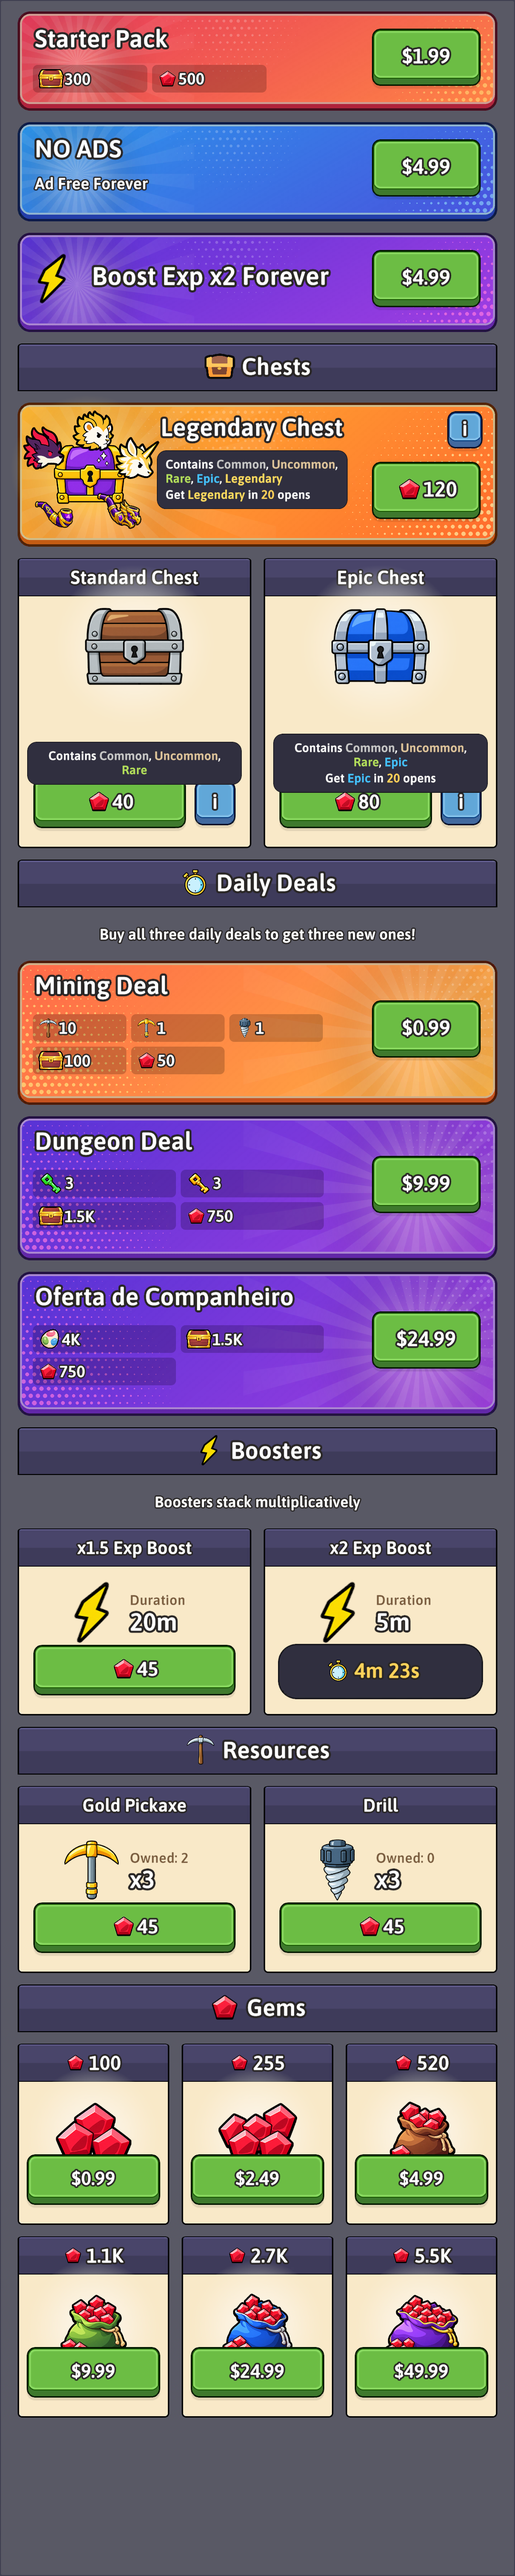
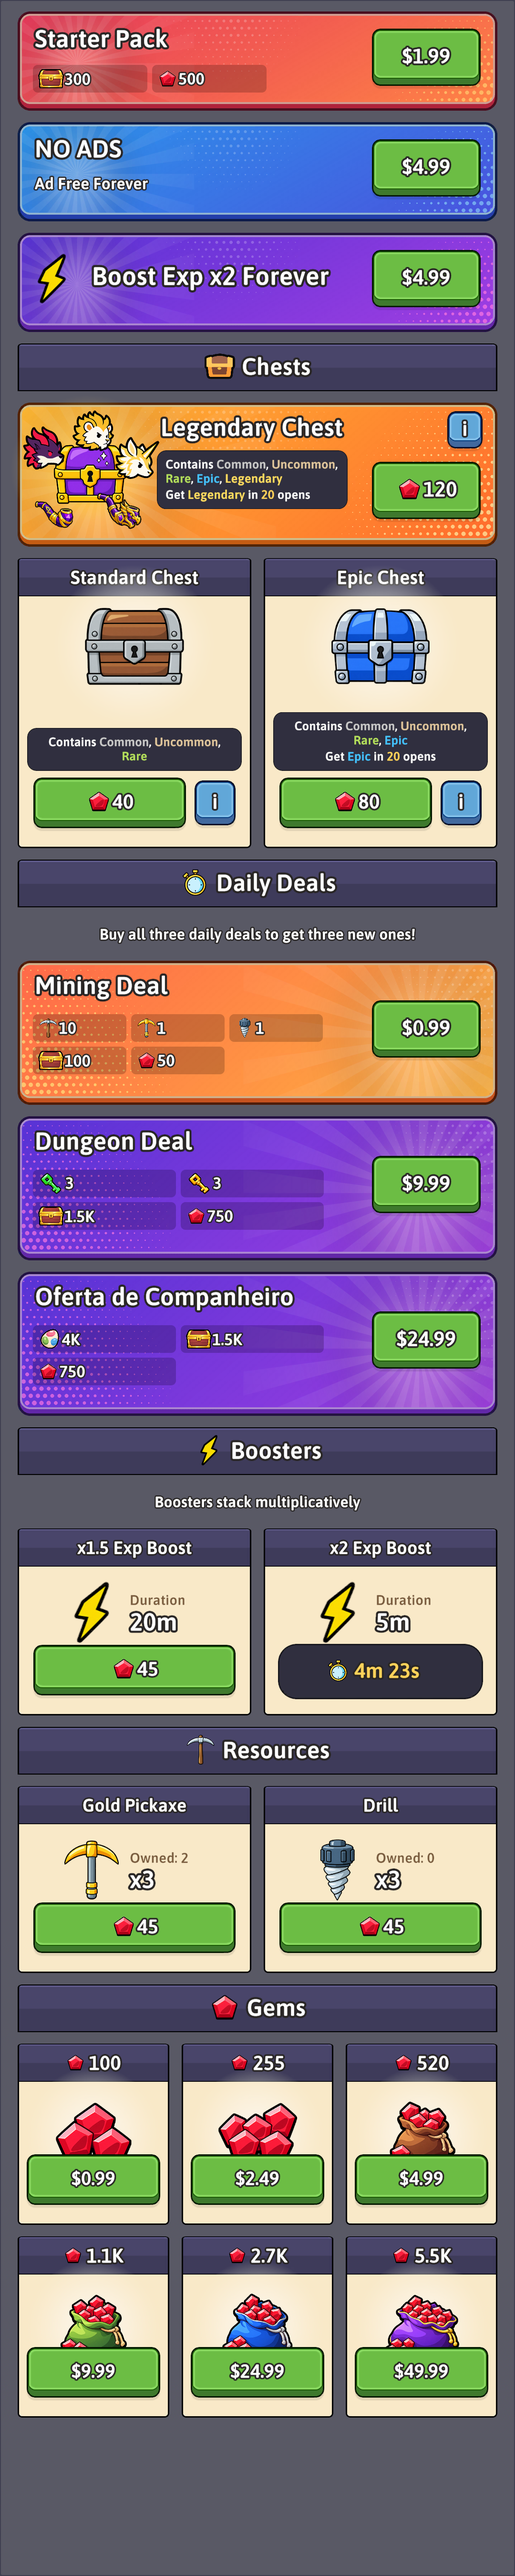
Reskin trang Shop: panel Contains thẻ rương neo mép dưới, ảnh chụp kiểm + ghi tiến độ

Changed region(s): [[0.5194, 0.2489, 0.9472, 0.3111], [0.0306, 0.28, 0.4889, 0.3111]]

diff --git a/2026DungeonRushUnity/Assets/_Assets/Scripts/Art/Editor/ShopPageReskin.cs b/2026DungeonRushUnity/Assets/_Assets/Scripts/Art/Editor/ShopPageReskin.cs
@@ -301,9 +301,10 @@ public static class ShopPageReskin
             Batch7Reskin.PutBehind(glow.transform, icon.transform);
 
             RectTransform panel = InfoPanel(root.transform, card, TextAlignmentOptions.Center);
-            panel.anchorMin = panel.anchorMax = new Vector2(0.5f, 1f);
-            panel.pivot = new Vector2(0.5f, 0.5f);
-            panel.anchoredPosition = new Vector2(0f, -430f);
+            // Neo mép DƯỚI cách đỉnh nút mua 12 → panel cao lên khi có dòng pity, không đè nút.
+            panel.anchorMin = panel.anchorMax = new Vector2(0.5f, 0f);
+            panel.pivot = new Vector2(0.5f, 0f);
+            panel.anchoredPosition = new Vector2(0f, TILE_BUTTON_BOTTOM + TILE_BUTTON_H / 2f + 12f);
             panel.sizeDelta = new Vector2(450f, panel.sizeDelta.y);
 
             TileButton(card.BuyButton.transform, 326f);

diff --git a/tools/concept/PLAN.md b/tools/concept/PLAN.md
@@ -81,4 +81,7 @@ Không làm: trang tab (`StoreTabPage`, `ClanTabPage`, `UIChatTabPage`), `LevelP
 | 9 | ✅ tools/concept/batch9/ (khảo sát: before/ + *_filled; giữ bố cục/art mockup Profile/Settings/Avatar/Rate Us; max: 22 avatar = 5 hàng, 10 ngôn ngữ, mô tả Cloud FR 108, nút tài khoản ES 28, link ES 32) | ✅ 2026-11-12 (duyệt: khung 816 cả 9 popup, nút cam/tím theo chức năng, nhãn nâu; Avatar cao 916 không cuộn, Language thấp 600, gợi ý tên 3-15 ký tự, Sign In sắp lại + link xanh gạch chân, bỏ dòng phụ Sign Up, Choose Save chữ nâu + tên màn + key tiêu đề, Rate Us Submit cam/sprite xám, giữ "SUBMIT" cứng) | ✅ Batch9Reskin (chụp edit mode: batch9/unity.png, 12 ảnh; popup giữ chỗ trên màn, chỉ đổi rộng/cao); CHƯA test Play | ✅ |
 
 ## Thêm: trang Shop (StoreTabPage) — 2026-11-12
-User yêu cầu reskin cả trang Shop (trước để ngoài kế hoạch vì là trang tab). Concept `tools/concept/shop/concept.html` → `concept.png`; nền thẻ ưu đãi sinh bằng `tools/reskin/gen_shop_cards.py` (ra `tools/concept/shop/art/`, CHƯA chép vào Art/). **Trạng thái:** chờ user chốt. Bẫy: class `.pk` trùng nút hồng trong kit.css → đặt tên class riêng.
+User yêu cầu reskin cả trang Shop (trước để ngoài kế hoạch vì là trang tab). Concept `tools/concept/shop/concept.html` → `concept.png`; nền thẻ ưu đãi sinh bằng `tools/reskin/gen_shop_cards.py` → `Art/1_UIKit/Shop/` (card_boost/deal_orange/deal_purple ghi đè giữ GUID; offer_red/offer_blue/chest_gold mới; Simple, không 9-slice). **Trạng thái:** ✅ chốt 2026-11-12, ✅ áp bằng tool `ShopPageReskin` (menu Tools/DungeonRush/Reskin/Shop Page; RetentionUIBuilder gọi ở cuối), chụp edit mode `shop/unity.png`; CHƯA test Play.
+- Code: tên deal dùng key `Common.DealType.*`; deal cao cố định 302, lưới luôn 2 hàng, đổi bề rộng ô (DailyDealSlotUI.CellWidthForLessThan5Rewards 300 / CellWidthFor5Rewards 196); Boost đang chạy bật `StoreTabPage.X2/X5ExpBoostTimerPanel`; "Owned: n" nối DrillOwnedCountText/GoldenPickaxeOwnedCountText (trước null). Key mới `UI.Store.Owned`, `UI.Store.Duration`.
+- Ảnh cũ không còn dùng: Shop/chest_card, card_tan, gem_card, ribbon (chưa xoá).
+- Bẫy: class `.pk` trùng nút hồng trong kit.css → đặt tên class riêng; panel "Contains" thẻ rương dọc phải neo MÉP DƯỚI (co theo chữ, có pity thì cao lên đè nút).

diff --git a/zMemory/dungonrush-reskin-shop.md b/zMemory/dungonrush-reskin-shop.md
@@ -18,4 +18,6 @@ Reskin Shop 2026-10-18 (đã commit, CHƯA test bấm mua), mockup `ArtIncoming/
 - KHÔNG chạy lại `Tools/DungeonRush/Build Shop UI Prefabs` (ghi đè reskin).
 - Popup Shop reskin XONG 2026-10-18 (đã commit; ảnh so `_Concept/Shop/popups_game.png`): ChestInfo/RewardedChest = `Mastery/popup_frame` + Header (ChestInfo cao 120, nút X 104) + `Mastery/btn_close`; dòng tỉ lệ rarity = popup_frame giữ màu tint rarity; RewardParent/Content gói = `Mastery/box_tan`; nút mua/Claim = `Lobby/btn_green` (code UIRewardedChestPopup đổi DEFAULT_BUTTON_COLOR → Color.white, khoá vẫn tint xám); Open all = `Lobby/btn_blue`; ruy băng gói = `Shop/ribbon_tint` (bản trắng của Gameplay/ribbon_offer, `tools/reskin/gen_shop_popups.py`, viền 9-slice 110 hai đuôi) → code vẫn tô màu rarity; ô ChestContentUI = `Shop/reward_slot`; ChestRewardElementUI chỉ đổi font (khung rarity do RarityBackgroundConfig, nhãn NEW giữ xanh). UIOfferPopup đã làm ở đợt gameplay. ChestBundleReveal chỉ là lưới ô trên nền tối — không đổi gì thêm.
 
+- **Reskin lần 2 trang Shop theo kit popup (2026-11-12, user chốt concept `tools/concept/shop/concept.png`):** tool `ShopPageReskin` (KHÔNG chạy lại Build Shop UI Prefabs). Thẻ ưu đãi = nền tia sáng + halftone sinh bằng `tools/reskin/gen_shop_cards.py` (Starter đỏ offer_red, No Ads xanh offer_blue, Boost tím = card_boost, deal 1 cam / 2-3 tím, rương Legendary+ chest_gold); tiêu đề mục = popup_header + icon; rương thường/Booster/Resources/gói Gem = thẻ kem + header; deal cao cố định 302. Chi tiết + bẫy ở PLAN.md mục "trang Shop". Chụp edit mode khớp, CHƯA test Play.
+
 Xem [[dungonrush-reskin-ui-howto]], [[dungonrush-reskin-plan]], [[dungonrush-shop-system]].

diff --git a/zMemory/MEMORY.md b/zMemory/MEMORY.md
@@ -77,7 +77,7 @@
 - [Cách reskin 1 màn UI](dungonrush-reskin-ui-howto.md) — quy trình lobby: nhóm A ghi đè/B ảnh mới+prefab, pha màu thay ChatGPT cho hình học, ChatGPT cho icon, bẫy TMP sprite/Slider/Game view nhỏ; script tools/reskin/
 - [Quy trình concept → reskin UI](dungonrush-ui-concept-workflow.md) — reskin MỌI popup theo đợt (concept → user chốt → PopupStyle/Batch<N>Reskin); quy trình + tiến độ ở tools/concept/PLAN.md; XONG cả 10 đợt 0..9, còn test Play Đợt 2..9
 - [Reskin gameplay](dungonrush-reskin-gameplay.md) — map tường/sàn vẽ code, quái vịt đen ChatGPT trên rig hero, 3 popup đồ/offer kit Mastery; 2026-10-18 CHƯA commit
-- [Reskin Shop](dungonrush-reskin-shop.md) — StoreTabPage + 5 popup Shop (kit Mastery, ribbon_tint tô rarity) 2026-10-18: khung art + 19 icon ChatGPT ghi đè giữ size cũ + 6 gói gem; bẫy tách nền tím; đã commit
+- [Reskin Shop](dungonrush-reskin-shop.md) — StoreTabPage + 5 popup Shop (kit Mastery, ribbon_tint tô rarity) 2026-10-18: khung art + 19 icon ChatGPT ghi đè giữ size cũ + 6 gói gem; bẫy tách nền tím; đã commit; 2026-11-12 reskin lần 2 theo kit popup (ShopPageReskin)
 - [Reskin Mining](dungonrush-reskin-mining.md) — 2026-10-19 đã commit: kit Mastery + art 1_UIKit/Mining, ChatGPT 7 icon quặng (diamond=thạch anh tím), nút dụng cụ đổi sprite; CẤM chạy lại Build Mining
 - [Reskin Wing](dungonrush-reskin-wing.md) — PageWing + popup Craft/Reroll kit Mastery/BattlePass, wing→kính; đã commit
 - [Reskin Setting](dungonrush-reskin-setting.md) — 2026-10-19 đã commit: trang Settings phóng ×1.21 theo mockup, 4 ảnh art slider/núm ở 1_UIKit/Setting, núm đổi sprite (ToggleButton.OnSprite/OnFill)
